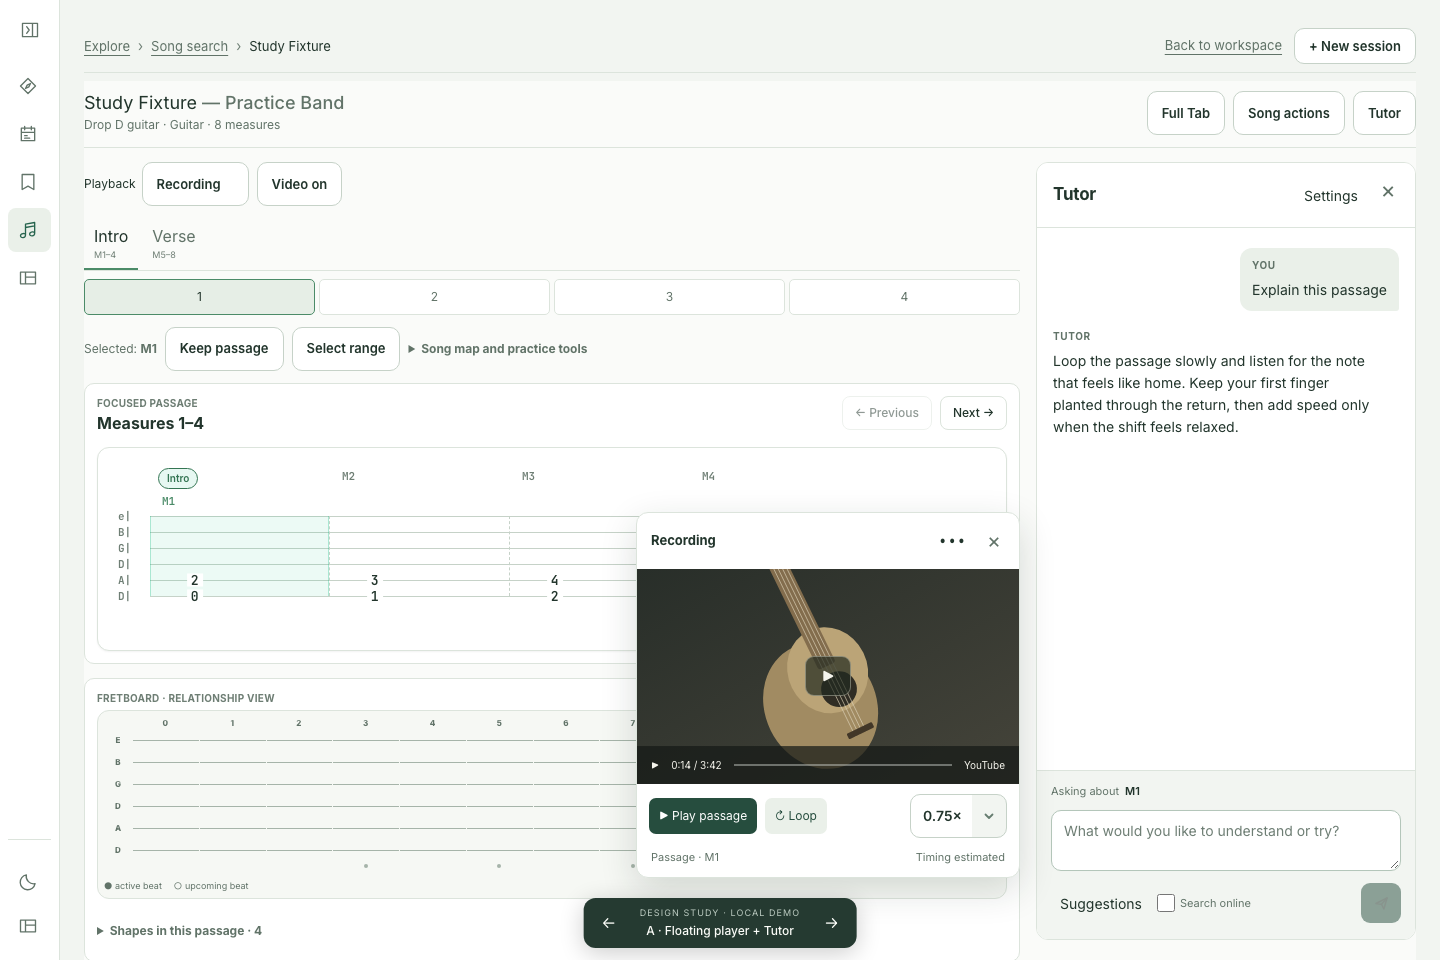
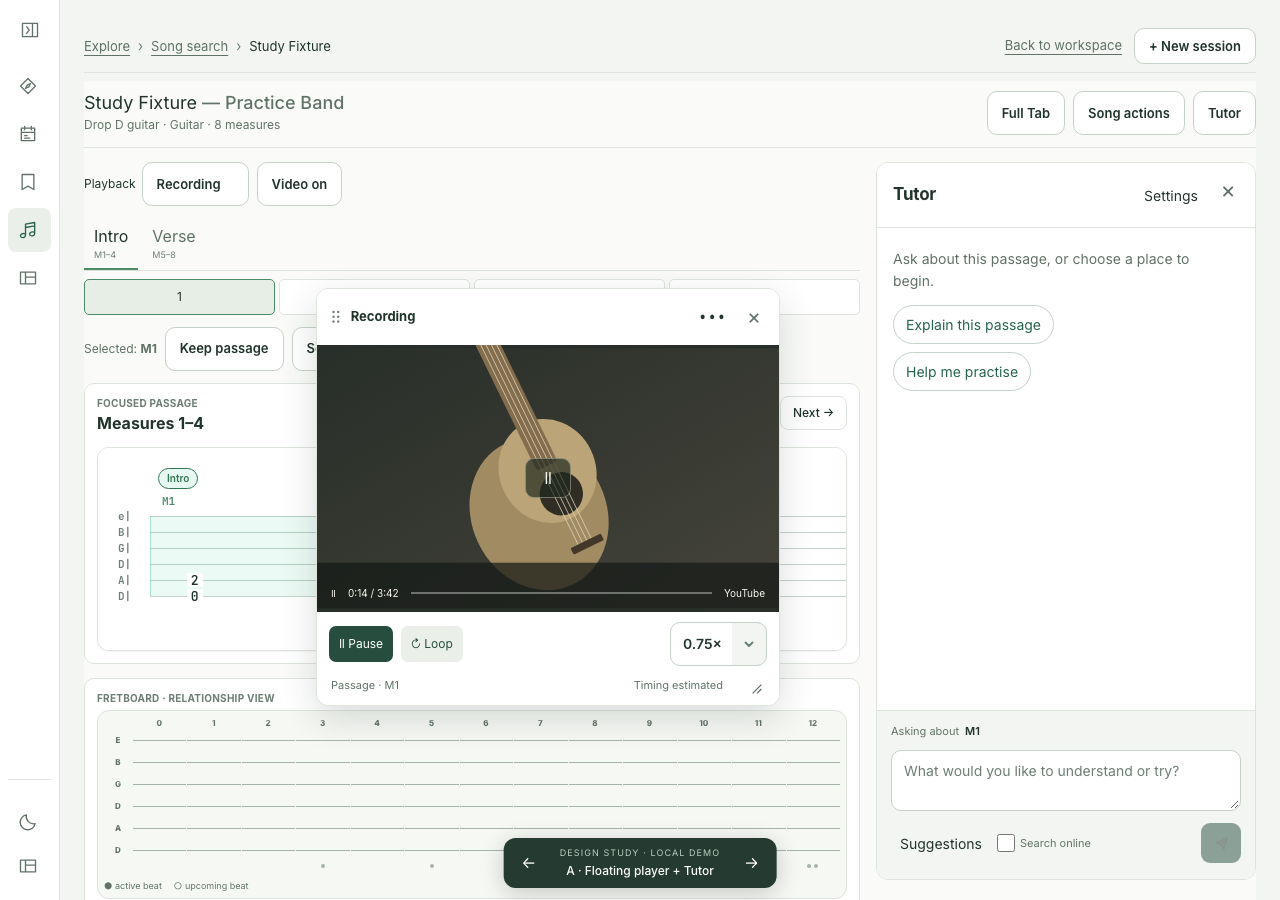
Make prototype recording window movable and resizable

diff --git a/frontend/src/v2/StudySupportPrototype.tsx b/frontend/src/v2/StudySupportPrototype.tsx
@@ -1,21 +1,16 @@
-// THROWAWAY: compare a single-size floating player (A) with a shared support rail (B).
+// THROWAWAY: compare a movable, resizable player (A) with a shared support rail (B).
 // Existing SongStudy route/data; ?variant=A|B. All support-panel actions are local demos.
-import { useEffect, useState } from 'react';
+import { useEffect, useRef, useState } from 'react';
+import type { KeyboardEvent, PointerEvent, ReactNode } from 'react';
 import { TutorConversationPrototype } from './TutorConversationPrototype';
 import './StudySupportPrototype.css';
 
-export function supportPrototypeVariant() {
-  if (!import.meta.env.DEV) return null;
-  const variant = new URLSearchParams(window.location.search).get('variant');
-  return variant === 'A' || variant === 'B' ? variant : null;
-}
-
-function RecordingContents({ context, onClose, embedded = false }: { context: string; onClose?: () => void; embedded?: boolean }) {
+function RecordingContents({ context, onClose, embedded = false, moveHandle }: { context: string; onClose?: () => void; embedded?: boolean; moveHandle?: ReactNode }) {
   const [playing, setPlaying] = useState(false);
   const [loop, setLoop] = useState(true);
   const [setup, setSetup] = useState(false);
   return <section className="support-proto-recording" aria-label="Recording preview">
-    <header className="support-proto-player-header"><strong>{setup ? 'Recording setup' : embedded ? 'Studio take' : 'Recording'}</strong>
+    <header className="support-proto-player-header">{moveHandle ?? <strong>{setup ? 'Recording setup' : embedded ? 'Studio take' : 'Recording'}</strong>}
       <div>{setup ? <button type="button" onClick={() => setSetup(false)}>Back to player</button> :
         <details className="support-proto-menu"><summary aria-label="Recording options">•••</summary><div>
           <button type="button" onClick={event => { event.currentTarget.closest('details')!.open = false; setPlaying(false); setSetup(true); }}>Sync with the score</button>
@@ -44,11 +39,82 @@ function RecordingContents({ context, onClose, embedded = false }: { context: st
   </section>;
 }
 
+type PlayerBounds = { left: number; top: number; width: number; height: number };
+
+function fitPlayer(bounds: PlayerBounds): PlayerBounds {
+  const width = Math.max(Math.min(296, window.innerWidth - 24), Math.min(bounds.width, window.innerWidth - 24));
+  // Leave room for the prototype switcher; a short landscape screen scrolls the player body.
+  const height = Math.max(Math.min(350, window.innerHeight - 94), Math.min(bounds.height, window.innerHeight - 94));
+  return { width, height, left: Math.max(12, Math.min(bounds.left, window.innerWidth - width - 12)), top: Math.max(12, Math.min(bounds.top, window.innerHeight - height - 82)) };
+}
+
 export function PrototypeRecording({ variant, context, covered }: { variant: 'A' | 'B'; context: string; covered: boolean }) {
   const [open, setOpen] = useState(true);
+  const [bounds, setBounds] = useState<PlayerBounds | null>(null);
+  const player = useRef<HTMLDivElement>(null);
+  const gesture = useRef<{ x: number; y: number; bounds: PlayerBounds; resize: boolean } | null>(null);
+
+  useEffect(() => {
+    const fit = () => setBounds(current => current && fitPlayer(current));
+    window.addEventListener('resize', fit);
+    return () => window.removeEventListener('resize', fit);
+  }, []);
+
+  function start(event: PointerEvent<HTMLButtonElement>, resize: boolean) {
+    if (event.button !== 0 || !player.current) return;
+    event.preventDefault();
+    event.currentTarget.focus();
+    event.currentTarget.setPointerCapture(event.pointerId);
+    gesture.current = { x: event.clientX, y: event.clientY, bounds: player.current.getBoundingClientRect(), resize };
+  }
+
+  function move(event: PointerEvent<HTMLButtonElement>) {
+    const from = gesture.current;
+    if (!from) return;
+    const dx = event.clientX - from.x;
+    const dy = event.clientY - from.y;
+    const { left, top, width, height } = from.bounds;
+    setBounds(fitPlayer(from.resize
+      ? { left, top, width: Math.min(width + dx, window.innerWidth - left - 12), height: Math.min(height + dy, window.innerHeight - top - 82) }
+      : { left: left + dx, top: top + dy, width, height }));
+  }
+
+  function keyAdjust(event: KeyboardEvent<HTMLButtonElement>, resize: boolean) {
+    if (!['ArrowLeft', 'ArrowRight', 'ArrowUp', 'ArrowDown', 'Home'].includes(event.key) || !player.current) return;
+    event.preventDefault();
+    event.stopPropagation();
+    if (event.key === 'Home') { setBounds(null); return; }
+    const step = event.shiftKey ? 48 : 16;
+    const dx = event.key === 'ArrowRight' ? step : event.key === 'ArrowLeft' ? -step : 0;
+    const dy = event.key === 'ArrowDown' ? step : event.key === 'ArrowUp' ? -step : 0;
+    const { left, top, width, height } = player.current.getBoundingClientRect();
+    setBounds(fitPlayer(resize
+      ? { left, top, width: Math.min(width + dx, window.innerWidth - left - 12), height: Math.min(height + dy, window.innerHeight - top - 82) }
+      : { left: left + dx, top: top + dy, width, height }));
+  }
+
+  const handleEvents = (resize: boolean) => ({
+    onPointerDown: (event: PointerEvent<HTMLButtonElement>) => start(event, resize),
+    onPointerMove: move,
+    onPointerUp: () => { gesture.current = null; },
+    onPointerCancel: () => { gesture.current = null; },
+    onLostPointerCapture: () => { gesture.current = null; },
+    onKeyDown: (event: KeyboardEvent<HTMLButtonElement>) => keyAdjust(event, resize),
+    onDoubleClick: () => setBounds(null),
+  });
+
   if (variant === 'B') return null;
   return <><button type="button" className="music-button" aria-expanded={open} onClick={() => setOpen(!open)}>Video {open ? 'on' : 'off'}</button>
-    {open && !covered && <div className="support-proto-floating"><RecordingContents context={context} onClose={() => setOpen(false)} /></div>}
+    {open && !covered && <div ref={player} className="support-proto-floating" style={bounds ? { ...bounds, bottom: 'auto', right: 'auto' } : undefined}>
+      <RecordingContents context={context} onClose={() => setOpen(false)} moveHandle={
+        <button type="button" className="support-proto-move" aria-label="Move recording" title="Drag to move · arrow keys to adjust · Home or double-click to reset" {...handleEvents(false)}>
+          <span aria-hidden="true">⠿</span><strong>Recording</strong>
+        </button>
+      } />
+      <button type="button" className="support-proto-resize" aria-label="Resize recording" title="Drag to resize · arrow keys to adjust · Home or double-click to reset" {...handleEvents(true)}>
+        <svg viewBox="0 0 16 16" aria-hidden="true"><path d="M3 13 13 3M8 13l5-5" /></svg>
+      </button>
+    </div>}
   </>;
 }
 
@@ -65,7 +131,7 @@ export function PrototypeCompanion({ variant, context, onClose }: { variant: 'A'
 export function PrototypeSwitcher({ variant }: { variant: 'A' | 'B' }) {
   function switchVariant() { const url = new URL(window.location.href); url.searchParams.set('variant', variant === 'A' ? 'B' : 'A'); window.location.href = url.href; }
   useEffect(() => {
-    const key = (event: KeyboardEvent) => { if (['ArrowLeft', 'ArrowRight'].includes(event.key) && !(event.target as HTMLElement).closest('input,textarea,select,[contenteditable]')) { event.preventDefault(); switchVariant(); } };
+    const key = (event: globalThis.KeyboardEvent) => { if (['ArrowLeft', 'ArrowRight'].includes(event.key) && !(event.target as HTMLElement).closest('input,textarea,select,[contenteditable]')) { event.preventDefault(); switchVariant(); } };
     window.addEventListener('keydown', key); return () => window.removeEventListener('keydown', key);
   });
   return <div className="support-proto-switcher"><button type="button" aria-label="Previous layout" onClick={switchVariant}>←</button><div><small>DESIGN STUDY · LOCAL DEMO</small><strong>{variant === 'A' ? 'A · Floating player + Tutor' : 'B · One panel with tabs'}</strong></div><button type="button" aria-label="Next layout" onClick={switchVariant}>→</button></div>;

diff --git a/frontend/src/v2/StudySupportPrototype.css b/frontend/src/v2/StudySupportPrototype.css
@@ -15,8 +15,20 @@
 .support-proto-tabs ~ .support-proto-chat-frame .support-proto-chat__header { position: absolute; top: 7px; right: 42px; padding: 0; border: 0; }
 .support-proto-tabs ~ .support-proto-chat-frame .support-proto-chat__header > div:first-child { display: none; }
 .support-proto-tabs ~ .support-proto-recording > header { padding-right: 14px; }
-.support-proto-floating { position: fixed; z-index: 35; bottom: 82px; left: 80px; width: 384px; max-width: calc(100vw - 32px); overflow: hidden; border: 1px solid var(--border-primary); border-radius: 12px; background: var(--card-bg); box-shadow: 0 12px 36px #182b2029; }
+.support-proto-floating { position: fixed; z-index: 35; bottom: 82px; left: 80px; width: 384px; height: 370px; max-width: calc(100vw - 24px); max-height: calc(100dvh - 94px); overflow: hidden; border: 1px solid var(--border-primary); border-radius: 12px; background: var(--card-bg); box-shadow: 0 12px 36px #182b2029; }
 @supports (left: anchor(left)) { .support-proto-floating { position-anchor: --support-proto-stage; left: max(anchor(left), calc(anchor(right) - 384px)); } }
+.support-proto-floating > .support-proto-recording { display: flex; flex-direction: column; height: 100%; overflow-y: auto; }
+.support-proto-floating .support-proto-player-header { flex-shrink: 0; position: sticky; top: 0; z-index: 4; background: var(--card-bg); padding-left: 6px; }
+.support-proto-floating .support-proto-player-header .support-proto-move { display: flex; align-items: center; gap: 8px; flex: 1; width: auto; min-height: 32px; font-size: 13px; text-align: left; cursor: grab; touch-action: none; user-select: none; color: var(--text-primary); }
+.support-proto-move > span { color: var(--text-muted); font-size: 20px; }
+.support-proto-move:active { cursor: grabbing; }
+.support-proto-resize { position: absolute; bottom: 0; right: 0; display: grid; place-items: center; width: 44px; height: 32px; z-index: 5; background: var(--card-bg); color: var(--text-secondary); cursor: nwse-resize; touch-action: none; user-select: none; border-radius: 8px 0 0; }
+.support-proto-resize svg { width: 14px; height: 14px; fill: none; stroke: currentColor; stroke-width: 1.5; }
+.support-proto-move:focus-visible, .support-proto-resize:focus-visible { outline: 2px solid var(--learning-green); outline-offset: -3px; }
+.support-proto-floating .support-proto-video { flex: 1 0 200px; aspect-ratio: auto; }
+.support-proto-floating .support-proto-playback, .support-proto-floating .support-proto-player-context { flex-shrink: 0; }
+.support-proto-floating .support-proto-player-context { padding-right: 56px; }
+.support-proto-floating .support-proto-setup { min-height: 0; }
 .support-proto-recording { min-width: 0; color: var(--text-primary); }
 .support-proto-player-header { display: flex; justify-content: space-between; align-items: center; padding: 6px 10px 6px 14px; min-height: 42px; font-size: 13px; }
 .support-proto-player-header > div { display: flex; gap: 6px; align-items: center; }
@@ -60,7 +72,7 @@
   .support-proto-companion { position: fixed; z-index: 40; inset: 130px 12px 78px; height: auto; min-height: 0; }
 }
 @media(max-width:700px) {
-  .support-proto-floating { left: 12px; right: 12px; bottom: 78px; width: auto; max-width: none; }
+  .support-proto-floating { left: 12px; right: 12px; bottom: 82px; width: auto; }
   .support-proto-playback button, .support-proto-playback select { min-height: 42px; }
   .support-proto-companion { inset: 112px 8px 78px; }
   .support-proto-video { min-height: 200px; }

diff --git a/frontend/src/v2/SongStudy.tsx b/frontend/src/v2/SongStudy.tsx
@@ -1,4 +1,4 @@
-import { supportPrototypeVariant, PrototypeRecording, PrototypeCompanion, PrototypeSwitcher } from './StudySupportPrototype';
+import { PrototypeRecording, PrototypeCompanion, PrototypeSwitcher } from './StudySupportPrototype';
 import type { CSSProperties } from 'react';
 import { SongStudyTutor } from './SongStudyTutor';
 import { SongVideo } from './SongVideo';
@@ -25,6 +25,11 @@ import type { SongDerivedRange, SongFocus, SongSelection, SongShapeSource, SongS
 import './SongStudy.css';
 
 const DEFAULT_WINDOW_SIZE = 4;
+function supportPrototypeVariant() {
+  if (!import.meta.env.DEV) return null;
+  const variant = new URLSearchParams(window.location.search).get('variant');
+  return variant === 'A' || variant === 'B' ? variant : null;
+}
 const MemoMeasureGroup = memo(MeasureGroup);
 // Supporting element, not a primary block (mock #overview callout 3: "large
 // enough to teach the current relationship, no larger by default") — 12

diff --git a/docs/study-desk/support-prototype/README.md b/docs/study-desk/support-prototype/README.md
@@ -4,9 +4,10 @@ Question: how can recording playback and Tutor feel intentional without player s
 
 This prototype uses the existing SongStudy route, real surrounding workspace and local demonstration controls. Its recording artwork and answers are illustrative; it does not play YouTube or send Tutor requests. The production implementation remains on `feature/issue-134-study-desk`.
 
-## A: one player window, conversation beside the music — recommended
+## A: movable player window, conversation beside the music — selected
 
-- The player has one size and one hierarchy: recording, native video controls, passage playback, loop and speed. Close returns its space to the music.
+- The player has one hierarchy: recording, native video controls, passage playback, loop and speed. Drag its title bar to move it; drag the lower-right grip to resize it. Close returns its space to the music.
+- Both grips support touch and keyboard arrows (Shift for larger steps). Home or double-click restores the default placement and size. Bounds stay inside the viewport, with a readable minimum video area; short landscape screens scroll the player body. Placement survives closing/reopening during the current visit only.
 - Recording options contain changing the source and score synchronization. Timing is a separate paused setup task; it does not expand a form under the video.
 - Tutor starts with a short invitation and two starter questions. Once a conversation starts, the history owns the space.
 - Teaching preferences live under Settings in the header. All four suggested prompts are available beside the composer, where the learner is deciding what to ask. Selecting a prompt fills the draft rather than sending it.
@@ -27,4 +28,6 @@ Run the frontend dev server against the existing development backend and open a 
 
 Current task preview: `http://localhost:5192/v2?variant=A` (Study a song → search `fixture` → Drop D guitar when using the scripted local backend).
 
-Browser-inspected at 1440px desktop and 390/320px phone widths, including Settings, Suggestions, timing setup, and a sample conversation. This is design validation, not production behavior verification. Decision pending user feedback; A is the recommendation.
+With the local prototype and scripted backend running, check movement and resizing from `frontend` with `node scripts/check-support-player.mjs`.
+
+Browser-inspected at 1440px desktop and 390/320px phone widths, including Settings, Suggestions, timing setup, and a sample conversation. This is design validation, not production behavior verification. The user selected A, requesting movement and resizing to keep it clear of the music. This iteration adds those interactions to the prototype before folding the design into production.
